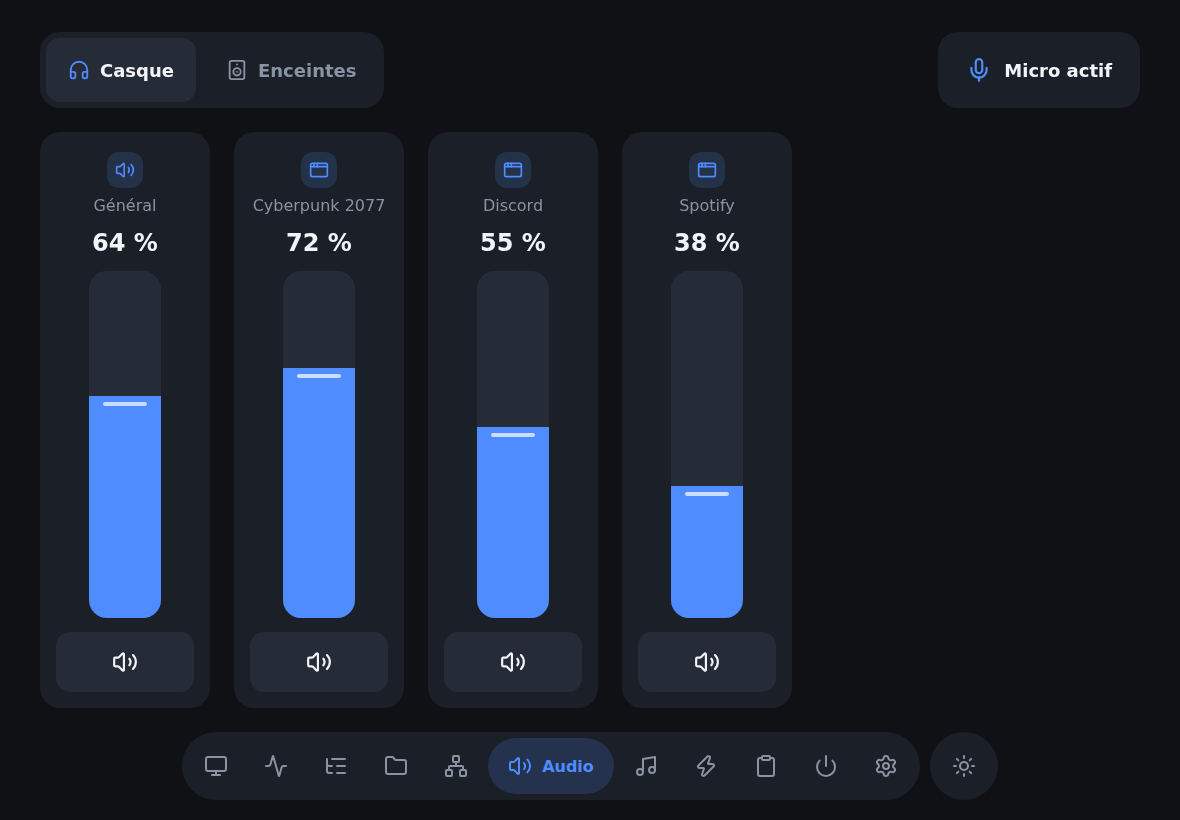
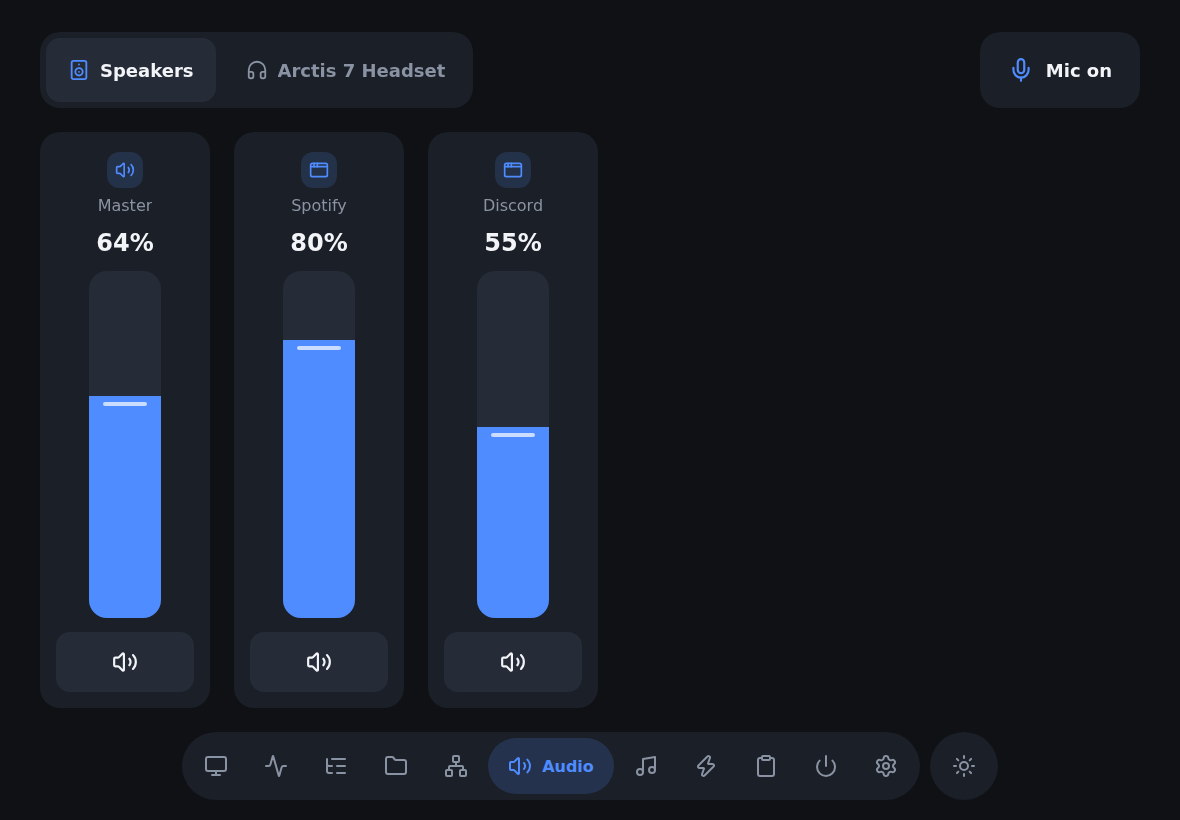
Anglais par défaut, langue au premier lancement, menu en portrait, README en anglais
- L'appli démarre en anglais ; l'écran d'appairage propose Français / English.
- Portrait ou écran étroit : menu en icônes seules (les noms écrasaient les icônes).
- Audio : les sorties rétrécissent pour ne plus pousser le bouton micro hors de l'écran.
- README et captures en anglais.

Claude-Session: https://claude.ai/code/session_017XDUcZckp8DCeXntzGDFHA

diff --git a/web/src/styles.css b/web/src/styles.css
@@ -139,6 +139,29 @@ body,
   color: var(--accent);
 }
 
+/* Portrait ou écran étroit : icônes seules, réparties sur toute la largeur. La page
+   active reste en couleur ; son nom ne tiendrait pas sans écraser les icônes. */
+@media (orientation: portrait), (max-width: 1000px) {
+  .shell-bar {
+    align-self: stretch;
+    max-width: none;
+    margin: 0 16px 16px;
+  }
+  .nav-menu {
+    flex: 1;
+    justify-content: space-between;
+  }
+  .nav-item,
+  .nav-item.active {
+    flex: 1 1 0;
+    min-width: 0;
+    padding: 0;
+  }
+  .nav-label {
+    display: none;
+  }
+}
+
 .page {
   display: flex;
   flex-direction: column;
@@ -637,6 +660,7 @@ body,
 }
 
 .audio-outputs {
+  flex: 0 1 auto; /* rétrécit (et passe à la ligne) pour laisser toute sa place au bouton micro */
   flex-wrap: wrap;
   min-width: 0;
   margin-bottom: 0;
@@ -655,6 +679,10 @@ body,
   overflow: hidden;
   white-space: nowrap;
   text-overflow: ellipsis;
+}
+
+.audio-outputs button svg {
+  flex: none; /* nom trop long : c'est lui qui est coupé, pas l'icône */
 }
 
 .audio-outputs button.active svg {
@@ -1445,6 +1473,7 @@ body,
 
 /* Appairage : pavé numérique plein écran, sans défilement. */
 .pairing {
+  position: relative;
   display: flex;
   align-items: center;
   justify-content: center;
@@ -2729,5 +2758,34 @@ body,
   .settings-option {
     flex-direction: row;
     min-height: 52px;
+  }
+}
+
+/* Choix de la langue en haut à droite de l'écran d'appairage (premier lancement). */
+.lang-switch {
+  align-items: center;
+  margin-bottom: 0;
+}
+
+.lang-switch-icon {
+  margin: 0 6px 0 10px;
+  color: var(--muted);
+}
+
+.pairing-lang {
+  position: absolute;
+  top: 20px;
+  right: 24px;
+}
+
+.lang-switch button {
+  min-height: 48px;
+  padding: 0 20px;
+}
+
+@media (max-width: 560px) {
+  .pairing-lang {
+    position: static;
+    align-self: center;
   }
 }

diff --git a/web/src/i18n/index.ts b/web/src/i18n/index.ts
@@ -1,6 +1,6 @@
-// Traductions de l'appli (react-i18next). La langue est choisie dans Paramètres et
-// mémorisée sur la tablette ; au premier lancement on suit la langue du navigateur,
-// et le français sert de repli.
+// Traductions de l'appli (react-i18next). La langue se choisit au premier lancement
+// (écran d'appairage) ou dans Paramètres, et reste mémorisée sur la tablette.
+// Anglais par défaut.
 import i18n from 'i18next'
 import { initReactI18next } from 'react-i18next'
 import { fr } from './fr'
@@ -24,17 +24,8 @@ function stored(): Lang | null {
   }
 }
 
-function fromBrowser(): Lang {
-  const langs = navigator.languages?.length ? navigator.languages : [navigator.language]
-  for (const l of langs) {
-    const base = l?.toLowerCase().split('-')[0]
-    if (base === 'fr' || base === 'en') return base
-  }
-  return 'fr'
-}
-
 export function getLang(): Lang {
-  return i18n.language === 'en' ? 'en' : 'fr'
+  return i18n.language === 'fr' ? 'fr' : 'en'
 }
 
 export function setLang(lang: Lang) {
@@ -48,7 +39,7 @@ export function setLang(lang: Lang) {
 
 // Locale des dates et des nombres (virgule décimale en français, point en anglais).
 export function locale() {
-  return getLang() === 'en' ? 'en-US' : 'fr-FR'
+  return getLang() === 'fr' ? 'fr-FR' : 'en-US'
 }
 
 i18n.on('languageChanged', (lng) => {
@@ -57,8 +48,8 @@ i18n.on('languageChanged', (lng) => {
 
 i18n.use(initReactI18next).init({
   resources: { fr: { translation: fr }, en: { translation: en } },
-  lng: stored() ?? fromBrowser(),
-  fallbackLng: 'fr',
+  lng: stored() ?? 'en',
+  fallbackLng: 'en',
   interpolation: { escapeValue: false }, // React échappe déjà
   returnNull: false,
 })

diff --git a/web/src/components/LanguageSwitch.tsx b/web/src/components/LanguageSwitch.tsx
@@ -1,0 +1,26 @@
+import { useTranslation } from 'react-i18next'
+import { Languages } from 'lucide-react'
+import { LANGS, getLang, setLang } from '../i18n'
+
+// Choix compact de la langue (écran d'appairage, au premier lancement).
+export function LanguageSwitch({ className = '' }: { className?: string }) {
+  const { t } = useTranslation() // re-rend quand la langue change
+  return (
+    <div className={`segmented lang-switch ${className}`} role="radiogroup" aria-label={t('settings.language')}>
+      <Languages size={22} strokeWidth={2} aria-hidden className="lang-switch-icon" />
+      {LANGS.map(({ id, label }) => (
+        <button
+          key={id}
+          type="button"
+          role="radio"
+          lang={id}
+          aria-checked={getLang() === id}
+          className={getLang() === id ? 'active' : ''}
+          onClick={() => setLang(id)}
+        >
+          {label}
+        </button>
+      ))}
+    </div>
+  )
+}

diff --git a/web/src/pairing/PairingScreen.tsx b/web/src/pairing/PairingScreen.tsx
@@ -2,6 +2,7 @@ import { useCallback, useEffect, useState } from 'react'
 import { Delete, MonitorSmartphone } from 'lucide-react'
 import { useTranslation } from 'react-i18next'
 import i18n from '../i18n'
+import { LanguageSwitch } from '../components/LanguageSwitch'
 
 const LENGTH = 6
 const KEYS = ['1', '2', '3', '4', '5', '6', '7', '8', '9', 'clear', '0', 'back'] as const
@@ -113,6 +114,7 @@ export function PairingScreen({ onPaired }: { onPaired: () => void }) {
 
   return (
     <main className="pairing">
+      <LanguageSwitch className="pairing-lang" />
       <div className="pairing-intro">
         <MonitorSmartphone size={40} strokeWidth={1.75} aria-hidden className="pairing-icon" />
         <h1>{t('pairing.title')}</h1>

diff --git a/web/index.html b/web/index.html
@@ -1,5 +1,5 @@
 <!doctype html>
-<html lang="fr">
+<html lang="en">
   <head>
     <meta charset="UTF-8" />
     <meta name="viewport" content="width=device-width, initial-scale=1, viewport-fit=cover, user-scalable=no" />

diff --git a/README.md b/README.md
@@ -1,98 +1,98 @@
 # deckpad
 
-Piloter son PC depuis une tablette pendant qu'on joue : des pages par thème, en swipe, avec de grosses tuiles.
+Control your PC from a tablet while you play: themed pages you swipe through, with big tiles.
 
-- `agent/` : programme Go qui tourne sur le PC (API + appli tablette embarquée), un seul `.exe`.
-- `web/` : appli tablette (React + Vite + Swiper), installable en PWA.
+- `agent/`: Go program running on the PC (API + embedded tablet app), a single `.exe`.
+- `web/`: tablet app (React + Vite + Swiper), installable as a PWA. Available in English and French.
 
-## Aperçu
+## Preview
 
-![Infos PC](docs/screenshots/infos.png)
+![PC info](docs/screenshots/info.png)
 
 | | |
 |---|---|
-| ![Stats](docs/screenshots/stats.png) Stats | ![Processus](docs/screenshots/processus.png) Processus |
-| ![Réseau](docs/screenshots/reseau.png) Réseau | ![Audio](docs/screenshots/audio.png) Audio |
-| ![Médias](docs/screenshots/medias.png) Médias | ![Raccourcis](docs/screenshots/raccourcis.png) Raccourcis |
-| ![Fichiers](docs/screenshots/fichiers.png) Fichiers | ![Presse-papiers](docs/screenshots/presse-papiers.png) Presse-papiers |
-| ![Système](docs/screenshots/systeme.png) Système | ![Thème clair](docs/screenshots/infos-clair.png) Thème clair |
-| ![Paramètres](docs/screenshots/parametres.png) Paramètres | ![En anglais](docs/screenshots/processus-anglais.png) En anglais |
+| ![Stats](docs/screenshots/stats.png) Stats | ![Processes](docs/screenshots/processes.png) Processes |
+| ![Network](docs/screenshots/network.png) Network | ![Audio](docs/screenshots/audio.png) Audio |
+| ![Media](docs/screenshots/media.png) Media | ![Shortcuts](docs/screenshots/shortcuts.png) Shortcuts |
+| ![Files](docs/screenshots/files.png) Files | ![Clipboard](docs/screenshots/clipboard.png) Clipboard |
+| ![System](docs/screenshots/system.png) System | ![Light theme](docs/screenshots/info-light.png) Light theme |
+| ![Settings](docs/screenshots/settings.png) Settings | ![In French](docs/screenshots/processes-french.png) In French |
 
-Sur téléphone aussi :
+On phones too:
 
 <p>
-  <img src="docs/screenshots/stats-telephone.png" alt="Stats sur téléphone" width="240">
-  <img src="docs/screenshots/reseau-telephone.png" alt="Réseau sur téléphone" width="240">
+  <img src="docs/screenshots/stats-phone.png" alt="Stats on a phone" width="240">
+  <img src="docs/screenshots/network-phone.png" alt="Network on a phone" width="240">
 </p>
 
-## Utiliser
+## Usage
 
-1. Lancer `deckpad.exe` sur le PC. Il affiche l'adresse à ouvrir (ex : `http://192.168.1.20:8420`).
-2. Ouvrir cette adresse sur la tablette, puis « Ajouter à l'écran d'accueil ».
+1. Run `deckpad.exe` on the PC. It shows the address to open (e.g. `http://192.168.1.20:8420`).
+2. Open that address on the tablet, then "Add to Home screen".
 
-### Installer l'appli sur la tablette (PWA)
+### Install the app on the tablet (PWA)
 
-Les navigateurs n'installent une vraie appli (plein écran, icône, cache) qu'en HTTPS. deckpad sert donc aussi l'appli en HTTPS sur le port 8421, avec son propre certificat.
+Browsers only install a real app (full screen, icon, cache) over HTTPS. So deckpad also serves the app over HTTPS on port 8421, with its own certificate.
 
-Juste après l'appairage, la tablette propose de passer en connexion sécurisée, en 3 étapes (une seule fois) :
+Right after pairing, the tablet offers to switch to a secure connection, in 3 steps (only once):
 
-1. « Télécharger le certificat ».
-2. Android : dans Paramètres, chercher « Certificat CA » et choisir `deckpad-ca.crt`. iPad : Réglages › Profil téléchargé › Installer, puis Réglages › Général › Informations › Réglages des certificats, activer deckpad.
-3. « Continuer en sécurisé » : la tablette passe en HTTPS sans refaire l'appairage. Il ne reste qu'à installer l'appli (menu ⋮ → « Installer l'application » sur Chrome).
+1. "Download the certificate".
+2. Android: in Settings, search for "CA certificate" and pick `deckpad-ca.crt`. iPad: Settings › Profile Downloaded › Install, then Settings › General › About › Certificate Trust Settings, turn on deckpad.
+3. "Continue securely": the tablet switches to HTTPS without pairing again. All that's left is installing the app (⋮ menu → "Install app" in Chrome).
 
-À savoir :
+Good to know:
 
-- Au premier lancement, deckpad crée sa petite autorité de certification dans `%APPDATA%\deckpad` (Windows) ou `~/.config/deckpad` (Linux) : `ca.crt` et `ca.key`. La clé ne quitte jamais le PC. Elle ne peut signer que des adresses du réseau local, donc elle ne servirait à rien pour se faire passer pour un autre site.
-- Si l'adresse du PC change, le certificat est refait tout seul, sans rien réinstaller sur la tablette.
-- Android affiche ensuite « le réseau peut être surveillé » : c'est normal après l'installation d'un certificat.
-- `-https-addr ""` désactive le HTTPS. En mode développement, le HTTPS sert l'appli construite : lancer `npm run build` avant de tester cette étape.
+- On first launch, deckpad creates its own small certificate authority in `%APPDATA%\deckpad` (Windows) or `~/.config/deckpad` (Linux): `ca.crt` and `ca.key`. The key never leaves the PC. It can only sign local network addresses, so it would be useless to impersonate another website.
+- If the PC's address changes, the certificate is regenerated automatically, with nothing to reinstall on the tablet.
+- Android then shows "network may be monitored": this is normal after installing a certificate.
+- `-https-addr ""` disables HTTPS. In development mode, HTTPS serves the built app: run `npm run build` before testing this step.
 
-Sans certificat, sur Android, on peut aussi activer `chrome://flags/#unsafely-treat-insecure-origin-as-secure` avec l'adresse HTTP du PC, puis installer l'appli.
+Without a certificate, on Android, you can also enable `chrome://flags/#unsafely-treat-insecure-origin-as-secure` with the PC's HTTP address, then install the app.
 
-### Appairer une tablette
+### Pair a tablet
 
-Tant qu'aucune tablette n'est appairée, le PC ouvre au lancement une petite fenêtre avec un QR code de l'adresse à ouvrir. La tablette affiche ensuite un pavé numérique et la fenêtre un code à 6 chiffres (aussi écrit dans la console). Taper ce code sur la tablette : elle reçoit une clé et n'aura plus à le refaire.
+As long as no tablet is paired, the PC opens a small window at launch with a QR code of the address to open. The tablet then shows a keypad (with a language picker, English by default) and the window a 6-digit code (also printed in the console). Type that code on the tablet: it receives a key and won't have to do it again.
 
-- Le code expire après 5 minutes et se bloque après 5 erreurs.
-- Chaque appareil a sa propre clé. Le PC n'en garde que l'empreinte, dans `%APPDATA%\deckpad\devices.json` (Windows) ou `~/.config/deckpad/devices.json` (Linux). Supprimer ce fichier désappaire tout.
-- La fenêtre s'ouvre avec Edge ou Chrome (Chromium sous Linux), sinon dans le navigateur par défaut.
+- The code expires after 5 minutes and locks after 5 wrong attempts.
+- Each device has its own key. The PC only keeps its fingerprint, in `%APPDATA%\deckpad\devices.json` (Windows) or `~/.config/deckpad/devices.json` (Linux). Deleting this file unpairs everything.
+- The window opens with Edge or Chrome (Chromium on Linux), otherwise in the default browser.
 
-## Construire l'exe
+## Build the exe
 
-Prérequis : [Go](https://go.dev/dl/) et [Node.js](https://nodejs.org/).
+Requirements: [Go](https://go.dev/dl/) and [Node.js](https://nodejs.org/).
 
 ```
 .\build.ps1      # Windows
 ./build.sh       # macOS / Linux
 ```
 
-Résultat : `bin/deckpad.exe`.
+Output: `bin/deckpad.exe`.
 
-## Développer
+## Develop
 
-Deux terminaux :
+Two terminals:
 
 ```
-cd agent && go run .        # API sur :8420
+cd agent && go run .        # API on :8420
 cd web && npm install && npm run dev
 ```
 
-Ouvrir l'adresse affichée par Vite (sur le PC ou la tablette). L'appli se recharge à chaque sauvegarde et les appels `/api` sont redirigés vers l'agent.
+Open the address shown by Vite (on the PC or the tablet). The app reloads on every save and `/api` calls are proxied to the agent.
 
-Textes de l'appli : `web/src/i18n/fr.ts` et `web/src/i18n/en.ts` (react-i18next). Un texte ajouté en français doit l'être aussi en anglais : la compilation échoue sinon.
+App texts: `web/src/i18n/en.ts` and `web/src/i18n/fr.ts` (react-i18next). A text added in one language must also be added in the other: the build fails otherwise.
 
 ## Pages
 
-| Page | État |
+| Page | Status |
 |---|---|
-| Infos PC | ✅ |
-| Stats | ✅ CPU, RAM, GPU toutes marques (FPS et température GPU AMD sous Windows à venir) |
-| Processus | ✅ applications de l'utilisateur, tri CPU/RAM, fermeture avec confirmation |
-| Fichiers | ✅ disques et clés USB, navigation dans les dossiers (lecture seule) |
-| Réseau | ✅ débit en direct, latence, IP locale et publique, type de connexion |
-| Audio | ✅ volume général et par appli, micro, choix de la sortie (casque, enceintes…). Sous Linux : `pactl` requis (fourni avec PulseAudio / PipeWire) |
-| Médias | ✅ titre, artiste, pochette, lecture/pause, suivant/précédent (Spotify, YouTube dans le navigateur, VLC…). Windows 10 1809+ ; sous Linux, tout lecteur compatible MPRIS |
-| Raccourcis | ✅ tuiles configurables depuis la tablette (appui long pour modifier) : combinaison de touches, programme, dossier ou adresse web, capture de l'écran copiée dans le presse-papiers. Enregistrés dans `%APPDATA%\deckpad\shortcuts.json` (Windows) ou `~/.config/deckpad/shortcuts.json` (Linux). Sous Linux, les touches demandent `xdotool` (X11) ou `ydotool` (Wayland), la capture `gnome-screenshot`, `spectacle`, `grim` + `wl-copy` ou `maim` + `xclip` |
-| Presse-papiers | ✅ envoyer un texte au PC (copier, ouvrir, taper), voir le presse-papiers du PC, historique |
-| Système | ✅ verrouiller, veille, redémarrer, éteindre (appui long) |
-| Paramètres | ✅ langue (français / anglais, celle du navigateur au premier lancement) et page affichée au lancement, mémorisées sur la tablette |
+| PC info | ✅ |
+| Stats | ✅ CPU, RAM, GPU of any brand (FPS and AMD GPU temperature on Windows to come) |
+| Processes | ✅ user applications, sort by CPU/RAM, close with a long press |
+| Files | ✅ drives and USB sticks, folder browsing (read-only) |
+| Network | ✅ live throughput, latency, local and public IP, connection type |
+| Audio | ✅ master and per-app volume, microphone, output choice (headset, speakers…). On Linux: `pactl` required (ships with PulseAudio / PipeWire) |
+| Media | ✅ title, artist, cover, play/pause, next/previous (Spotify, YouTube in the browser, VLC…). Windows 10 1809+; on Linux, any MPRIS-compatible player |
+| Shortcuts | ✅ tiles configured from the tablet (long press to edit): key combination, program, folder or web address, screen capture copied to the clipboard. Stored in `%APPDATA%\deckpad\shortcuts.json` (Windows) or `~/.config/deckpad/shortcuts.json` (Linux). On Linux, keys need `xdotool` (X11) or `ydotool` (Wayland), capture needs `gnome-screenshot`, `spectacle`, `grim` + `wl-copy` or `maim` + `xclip` |
+| Clipboard | ✅ send text to the PC (copy, open, type), see the PC clipboard, history |
+| System | ✅ lock, sleep, restart, shut down (long press) |
+| Settings | ✅ language (English by default, or French) and start page, saved on the tablet |
